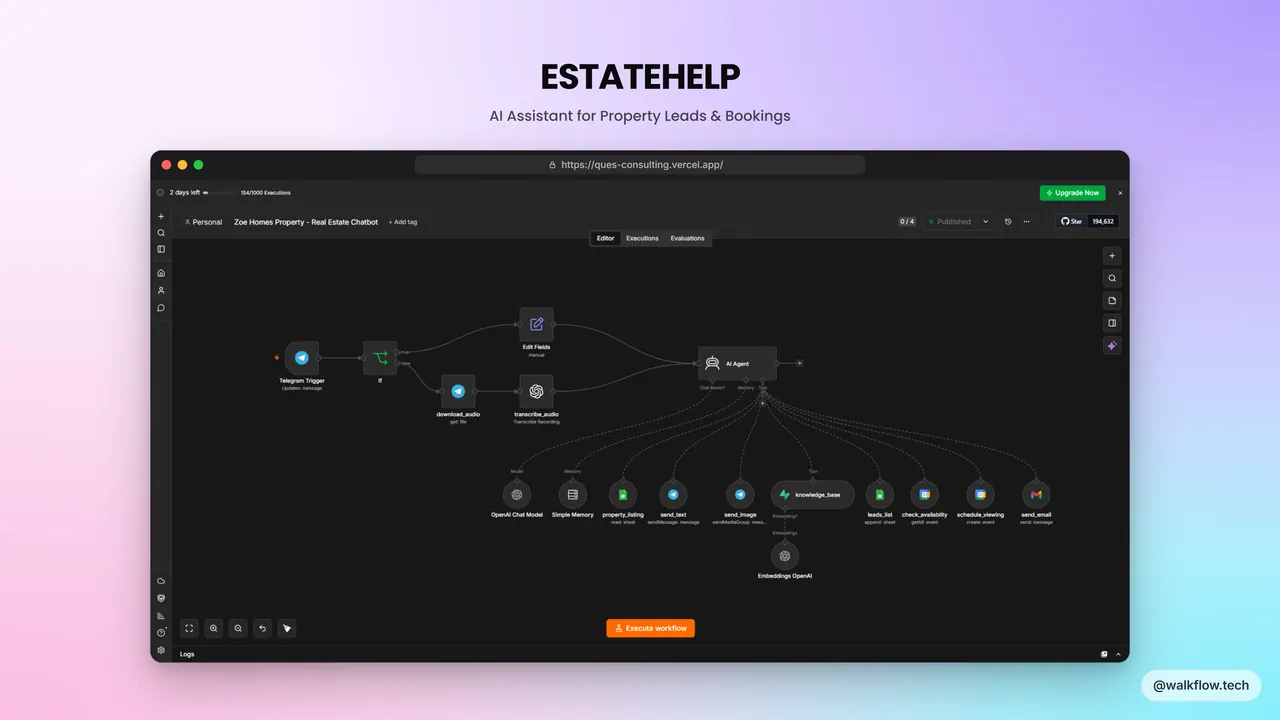
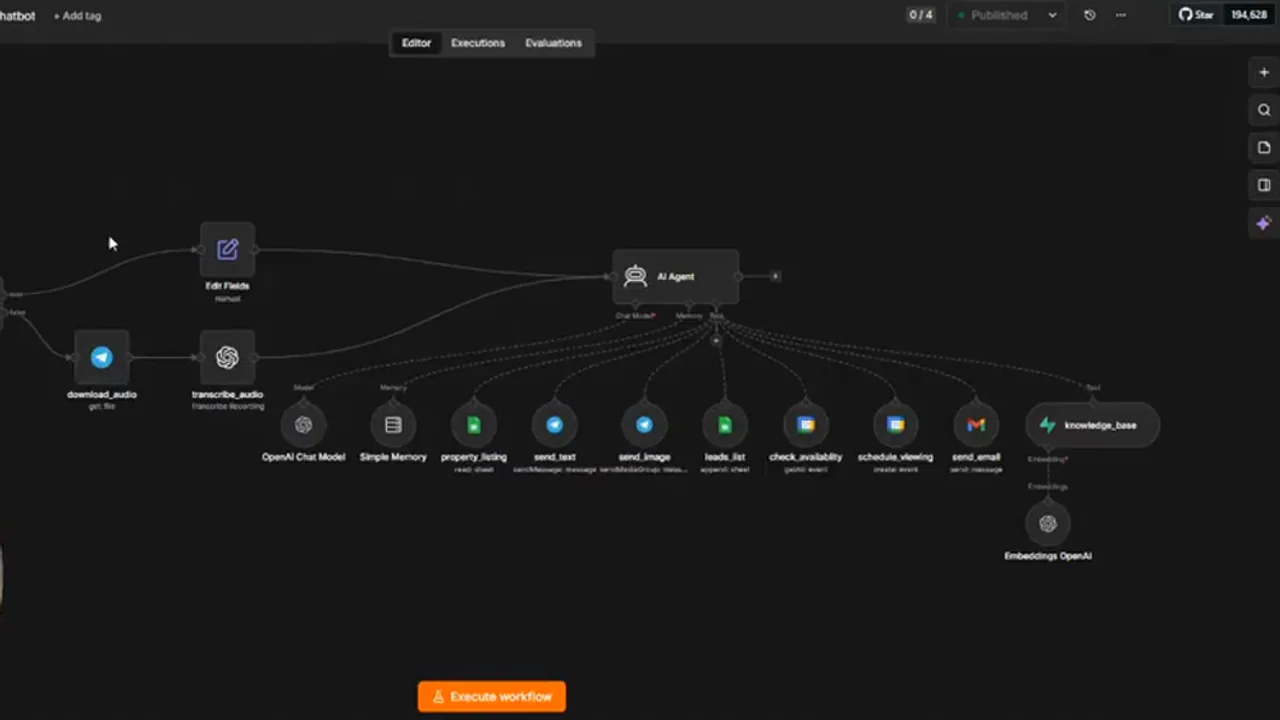
Automation showcase: remove card badge, left-align project pages, use project images
- Showcase cards no longer show the "Demo Project" corner label; desktop shows
  three cards per row across two rows (two columns tablet, one mobile).
- Project pages: the thumbnail is used on the cards only. Each page now shows its
  own screenshots/workflow images from the supplied folder, each at its real
  proportions and opening full size on click. Private data (names, email
  addresses, phone numbers, meeting links, webhook URLs, avatars) was redacted
  from the images before publishing. Items with no suitable image are reported,
  not substituted.
- Title, introduction, headings, paragraphs, lists, images, video and the
  consultation button share one left content edge.
- Video posters are now real frames from each video (cropped to remove webcam,
  browser tabs and taskbar) instead of repeating the thumbnail.

diff --git a/src/content/services.ts b/src/content/services.ts
@@ -82,6 +82,12 @@ export type ProjectItem = {
     solution: string;
     /** Short "how it works" steps, shown inside The Solution. */
     steps: string[];
+    /**
+     * Images shown on the project page in place of the card thumbnail (the thumbnail stays on the showcase card only).
+     * `width`/`height` are the real pixel size, so each image keeps its own proportions and reserves its space. Any private
+     * data in these screenshots was redacted before publishing; the caption says so where it applies.
+     */
+    gallery?: { src: string; alt: string; caption: string; width: number; height: number }[];
     /** Heading above the video block; the block is omitted when the project has no `videoSrc`. */
     videoHeading?: string;
   };
@@ -215,6 +221,15 @@ export const servicePages: Record<ServiceSlug, ServicePageContent> = {
               "A follow-up task is created, due within 24 hours.",
               "Each step is recorded in a database, and a separate error workflow alerts an administrator if something fails.",
             ],
+            gallery: [
+              { src: "/images/projects/automation/leadflow/01-form.webp", alt: "The LEADFLOW website enquiry form asking for name, email, what the buyer is looking for, preferred neighbourhood, budget and a message", caption: "The website enquiry form where a buyer describes what they are looking for.", width: 1600, height: 760 },
+              { src: "/images/projects/automation/leadflow/02-buyer-email.webp", alt: "Email sent to the buyer listing a matched property, with buttons to say whether they are still interested (personal details hidden)", caption: "The email the buyer receives with matching properties. Personal details are hidden.", width: 1600, height: 760 },
+              { src: "/images/projects/automation/leadflow/03-booking-page.webp", alt: "A property page showing a matched home with a Request a viewing option and a date and time form", caption: "From the email, the buyer can request a viewing and choose a date and time.", width: 1600, height: 760 },
+              { src: "/images/projects/automation/leadflow/04-agent-email.webp", alt: "Internal email to the assigned agent summarising the enquiry, the matched property and a follow-up due within 24 hours (personal details hidden)", caption: "The internal email to the assigned agent. Personal details are hidden.", width: 1600, height: 760 },
+              { src: "/images/projects/automation/leadflow/05-workflow.webp", alt: "The LEADFLOW workflow in n8n, from property enquiry to viewing", caption: "The LEADFLOW workflow in n8n.", width: 1600, height: 760 },
+              { src: "/images/projects/automation/leadflow/06-database.webp", alt: "A database table recording each LEADFLOW step, such as client notified, agent assigned and follow-up created", caption: "Each step is recorded in a database table.", width: 1600, height: 760 },
+              { src: "/images/projects/automation/leadflow/07-error-handler.webp", alt: "A small n8n error-handling workflow that formats a problem and emails an administrator", caption: "A separate error workflow alerts an administrator if something fails.", width: 1600, height: 760 },
+            ],
             videoHeading: "Watch the walkthrough",
           },
         },
@@ -242,6 +257,15 @@ export const servicePages: Record<ServiceSlug, ServicePageContent> = {
               "The request is saved in Airtable, alongside tables for inspections, quotes and activity, so progress is easy to track.",
               "A separate error workflow records any problem and sends an alert.",
             ],
+            gallery: [
+              { src: "/images/projects/automation/servicedesk/01-form.webp", alt: "The roofing enquiry form with contact method, property type, service needed, location, urgency, a description and a roof photo upload (personal details hidden)", caption: "The roofing request form, with optional photo upload. Personal details are hidden.", width: 1600, height: 1654 },
+              { src: "/images/projects/automation/servicedesk/02-confirmation.webp", alt: "Website confirmation message saying the enquiry has been received, with a reference number and an uploaded photo", caption: "The customer sees a confirmation with a reference number.", width: 1600, height: 760 },
+              { src: "/images/projects/automation/servicedesk/03-customer-email.webp", alt: "Acknowledgement email telling the customer the enquiry was received and that a team member will email about the next step (personal details hidden)", caption: "The acknowledgement email to the customer. Personal details are hidden.", width: 1600, height: 760 },
+              { src: "/images/projects/automation/servicedesk/04-team-alert.webp", alt: "A Telegram alert for the team showing the new roofing enquiry, urgency, preferred contact, owner and next step (personal details hidden)", caption: "The instant Telegram alert for the team. Personal details are hidden.", width: 1095, height: 890 },
+              { src: "/images/projects/automation/servicedesk/05-tracking.webp", alt: "An Airtable base with tables for leads, inspections, quotes and activity, showing the saved enquiries (personal details hidden)", caption: "Requests are saved in Airtable, with tables for inspections, quotes and activity. Personal details are hidden.", width: 1600, height: 760 },
+              { src: "/images/projects/automation/servicedesk/06-workflow.webp", alt: "The SERVICEDESK lead-manager workflow in n8n, with sections for the website enquiry, roof photo upload, customer quote link and staff buttons", caption: "The lead-manager workflow in n8n.", width: 1600, height: 760 },
+              { src: "/images/projects/automation/servicedesk/07-error-handler.webp", alt: "A SERVICEDESK error-handler workflow that records a problem and sends a Telegram alert", caption: "A separate error workflow records problems and sends an alert.", width: 1600, height: 760 },
+            ],
             videoHeading: "Watch the walkthrough",
           },
         },
@@ -267,6 +291,13 @@ export const servicePages: Record<ServiceSlug, ServicePageContent> = {
               "Discovery calls are booked into Google Calendar with a Google Meet link, and each booking is recorded with a reference and a status.",
               "Scheduled follow-up emails are sent from the same workflow.",
               "A separate recovery workflow records problems and alerts the team.",
+            ],
+            gallery: [
+              { src: "/images/projects/automation/bizflow/01-workflow.webp", alt: "The BIZFLOW enquiry, booking and follow-up manager workflow in n8n", caption: "The enquiry, booking and follow-up workflow in n8n.", width: 1600, height: 760 },
+              { src: "/images/projects/automation/bizflow/02-enquiries.webp", alt: "A Google Sheet logging each website enquiry with date, service and industry (names, emails and companies hidden)", caption: "Every enquiry is logged in a Google Sheet. Names, emails and companies are hidden.", width: 1600, height: 760 },
+              { src: "/images/projects/automation/bizflow/03-calendar.webp", alt: "A Google Calendar discovery call with a Google Meet link and reminders (guest details hidden)", caption: "Discovery calls are booked into Google Calendar with a Meet link. Guest details are hidden.", width: 1600, height: 760 },
+              { src: "/images/projects/automation/bizflow/04-bookings.webp", alt: "A Google Sheet of bookings with booking reference, enquiry reference, date, time, time zone and a Confirmed status (names, emails and links hidden)", caption: "Each booking is recorded with a reference and a status. Names, emails and links are hidden.", width: 1600, height: 760 },
+              { src: "/images/projects/automation/bizflow/05-recovery.webp", alt: "The BIZFLOW error alerts and recovery workflow in n8n", caption: "A separate recovery workflow records problems and alerts the team.", width: 1600, height: 760 },
             ],
             videoHeading: "Watch the walkthrough",
           },
@@ -294,6 +325,13 @@ export const servicePages: Record<ServiceSlug, ServicePageContent> = {
               "It saves the lead's name, phone number, email and the property they asked about to a leads sheet.",
               "It checks availability in Google Calendar, books the viewing and sends a confirmation email.",
             ],
+            gallery: [
+              { src: "/images/projects/automation/estatehelp/01-assistant.webp", alt: "The ESTATEHELP AI assistant workflow in n8n, starting from a Telegram message and connecting to property listing, knowledge base, calendar and email tools", caption: "The AI assistant workflow in n8n.", width: 1600, height: 788 },
+              { src: "/images/projects/automation/estatehelp/02-knowledge-base.webp", alt: "An n8n workflow that loads property documents from Google Drive into a vector store for the assistant to search", caption: "Property documents are loaded into a searchable knowledge base.", width: 1600, height: 788 },
+              { src: "/images/projects/automation/estatehelp/03-listings.webp", alt: "A Google Sheet listing properties with title, location, price, bedrooms, status and features (agent details and links hidden)", caption: "The assistant answers from your own property list. Agent details and links are hidden.", width: 1600, height: 436 },
+              { src: "/images/projects/automation/estatehelp/04-calendar.webp", alt: "A Google Calendar event for a property viewing booked by the assistant (contact details hidden)", caption: "Viewings are booked into Google Calendar. Contact details are hidden.", width: 1600, height: 788 },
+              { src: "/images/projects/automation/estatehelp/05-confirmation-email.webp", alt: "A viewing confirmation email with the property, date, time and location (personal details hidden)", caption: "The lead receives a viewing confirmation email. Personal details are hidden.", width: 1600, height: 788 },
+            ],
             videoHeading: "Watch the walkthrough",
           },
         },
@@ -318,6 +356,12 @@ export const servicePages: Record<ServiceSlug, ServicePageContent> = {
               "A voice agent built in ElevenLabs answers the call using a receptionist script.",
               "It checks free time slots through a connected workflow that reads the calendar.",
               "It books the appointment in the calendar, sends a confirmation email and logs the booking in a sheet.",
+            ],
+            gallery: [
+              { src: "/images/projects/automation/voice-agent/01-agent-setup.webp", alt: "The ElevenLabs agent setup for a plumbing receptionist, showing the system prompt, first message, voice and language", caption: "The receptionist agent set up in ElevenLabs.", width: 1600, height: 788 },
+              { src: "/images/projects/automation/voice-agent/02-tools.webp", alt: "The ElevenLabs tools for the agent, check availability and book appointment, with their settings (connection addresses hidden)", caption: "The agent uses two tools: check availability and book appointment. Connection addresses are hidden.", width: 1600, height: 788 },
+              { src: "/images/projects/automation/voice-agent/03-availability-workflow.webp", alt: "An n8n workflow that receives a webhook, uses an AI agent to read the calendar and responds with available times", caption: "The availability workflow reads the calendar.", width: 1600, height: 788 },
+              { src: "/images/projects/automation/voice-agent/04-booking-workflow.webp", alt: "An n8n workflow that receives a webhook and uses an AI agent to create the calendar booking, send an email and log it in a sheet", caption: "The booking workflow creates the event, emails a confirmation and logs it.", width: 1600, height: 788 },
             ],
             videoHeading: "Watch the walkthrough",
           },
@@ -344,6 +388,12 @@ export const servicePages: Record<ServiceSlug, ServicePageContent> = {
               "AI sorts the email into a department: Sales, Logistics, Billing, Customer Support or Office/Admin.",
               "The matching team is notified in its own Slack channel, and an email is sent to that department.",
               "The sheet is updated so you can see which department received the message and that it was completed.",
+            ],
+            gallery: [
+              { src: "/images/projects/automation/mailroute/01-diagram.webp", alt: "A diagram of the MAILROUTE flow from Gmail trigger through AI classification to department routing, Slack notifications and sheet updates", caption: "How MAILROUTE routes each email.", width: 1600, height: 788 },
+              { src: "/images/projects/automation/mailroute/02-workflow.webp", alt: "The MAILROUTE workflow in n8n with a Gmail trigger, AI agent, department switch and notifications for each team", caption: "The MAILROUTE workflow in n8n.", width: 1600, height: 788 },
+              { src: "/images/projects/automation/mailroute/03-log.webp", alt: "A Google Sheet logging each email with subject, body, completion status, timestamp and department (sender details hidden)", caption: "Every email is logged with its department. Sender details are hidden.", width: 1600, height: 788 },
+              { src: "/images/projects/automation/mailroute/04-slack.webp", alt: "A Slack channel for the logistics team showing a notification about a new email (names and addresses hidden)", caption: "The matching team is notified in its own Slack channel. Names and addresses are hidden.", width: 1600, height: 788 },
             ],
           },
         },

diff --git a/src/components/sections/services/AutomationDetail.tsx b/src/components/sections/services/AutomationDetail.tsx
@@ -8,10 +8,13 @@ import { IconArrowRight, IconChevronLeft } from "@/components/ui/icons";
 
 /**
  * Detail page for a Business Automation & CRM showcase project. Fixed content order:
- * title + introduction, main image, The Problem, The Solution, video (only when a real
- * `videoSrc` exists), then the consultation button. The video is never rendered without a
- * source, never autoplays, and does not preload (`preload="none"`) so the page stays light.
- * Rendered by ProjectDetail whenever a project carries `automation` content.
+ * title + introduction, project images, The Problem, The Solution, video (only when a real
+ * `videoSrc` exists), then the consultation button. Everything shares one left content edge.
+ *
+ * The card thumbnail (`project.image`) is used on the showcase card only; this page shows the
+ * project's own `automation.gallery` images instead. Each keeps its real proportions (width/height
+ * come from the file) and opens full size in a new tab, because screenshots are small at grid width.
+ * The video is never rendered without a source, never autoplays and does not preload.
  */
 export function AutomationDetail({
   project,
@@ -22,6 +25,7 @@ export function AutomationDetail({
 }) {
   const { automation } = project;
   if (!automation) return null;
+  const gallery = automation.gallery ?? [];
 
   return (
     <section className="bg-navy-deep py-16 sm:py-24">
@@ -45,22 +49,38 @@ export function AutomationDetail({
           {project.intro && <p className="mt-4 max-w-2xl text-lg leading-relaxed text-white/75">{project.intro}</p>}
         </Reveal>
 
-        <Reveal delay={0.08}>
-          <div className="relative mt-10 aspect-[16/9] w-full overflow-hidden rounded-2xl border border-white/10 bg-navy sm:rounded-[2rem]">
-            {project.image && (
-              <Image
-                src={project.image.src}
-                alt={project.image.alt}
-                fill
-                sizes="(min-width: 1024px) 896px, 92vw"
-                className="object-contain"
-                priority
-              />
-            )}
-          </div>
-        </Reveal>
+        {gallery.length > 0 && (
+          <Reveal delay={0.08}>
+            <ul className="mt-10 grid items-start gap-x-6 gap-y-8 sm:grid-cols-2">
+              {gallery.map((img, i) => (
+                <li key={img.src}>
+                  <figure>
+                    <a
+                      href={img.src}
+                      target="_blank"
+                      rel="noopener noreferrer"
+                      className="group block overflow-hidden rounded-xl border border-white/10 bg-navy outline-none transition-colors duration-150 hover:border-orange/40 focus-visible:outline-2 focus-visible:outline-offset-4 focus-visible:outline-orange"
+                    >
+                      <Image
+                        src={img.src}
+                        alt={img.alt}
+                        width={img.width}
+                        height={img.height}
+                        sizes="(min-width: 1280px) 540px, (min-width: 640px) 46vw, 92vw"
+                        priority={i < 2}
+                        className="h-auto w-full"
+                      />
+                      <span className="sr-only"> (opens the full-size image in a new tab)</span>
+                    </a>
+                    <figcaption className="mt-2.5 text-sm leading-relaxed text-white/60">{img.caption}</figcaption>
+                  </figure>
+                </li>
+              ))}
+            </ul>
+          </Reveal>
+        )}
 
-        <div className="mx-auto mt-14 max-w-3xl sm:mt-20">
+        <div className="mt-14 max-w-3xl sm:mt-20">
           <Reveal>
             <h2 className="text-[clamp(1.5rem,3vw,2rem)] leading-tight text-white">The Problem</h2>
             <p className="mt-4 leading-relaxed text-white/70">{automation.problem}</p>
@@ -83,32 +103,32 @@ export function AutomationDetail({
               ))}
             </ol>
           </Reveal>
-
-          {project.videoSrc && (
-            <Reveal delay={0.05}>
-              <div id="walkthrough" className="mt-12 scroll-mt-24 sm:mt-16">
-                <h2 className="text-[clamp(1.5rem,3vw,2rem)] leading-tight text-white">
-                  {automation.videoHeading ?? "Watch the walkthrough"}
-                </h2>
-                <div className="relative mt-5 aspect-video w-full overflow-hidden rounded-2xl border border-white/10 bg-navy">
-                  <video
-                    controls
-                    playsInline
-                    preload="none"
-                    poster={project.videoPoster?.src}
-                    aria-label={`${project.title} walkthrough video`}
-                    className="h-full w-full object-contain"
-                  >
-                    <source src={project.videoSrc} type="video/mp4" />
-                  </video>
-                </div>
-              </div>
-            </Reveal>
-          )}
         </div>
 
+        {project.videoSrc && (
+          <Reveal delay={0.05}>
+            <div id="walkthrough" className="mt-12 scroll-mt-24 sm:mt-16">
+              <h2 className="text-[clamp(1.5rem,3vw,2rem)] leading-tight text-white">
+                {automation.videoHeading ?? "Watch the walkthrough"}
+              </h2>
+              <div className="relative mt-5 aspect-video w-full overflow-hidden rounded-2xl border border-white/10 bg-navy">
+                <video
+                  controls
+                  playsInline
+                  preload="none"
+                  poster={project.videoPoster?.src}
+                  aria-label={`${project.title} walkthrough video`}
+                  className="h-full w-full object-contain"
+                >
+                  <source src={project.videoSrc} type="video/mp4" />
+                </video>
+              </div>
+            </div>
+          </Reveal>
+        )}
+
         <Reveal delay={0.05}>
-          <div className="mt-14 flex flex-col items-center border-t border-white/10 pt-12 text-center sm:mt-20 sm:pt-16">
+          <div className="mt-14 border-t border-white/10 pt-12 sm:mt-20 sm:pt-16">
             <h2 className="max-w-xl text-balance text-[clamp(1.5rem,3.2vw,2.25rem)] leading-tight text-white">
               Want something like this for your business?
             </h2>

diff --git a/src/components/sections/services/ServiceProjects.tsx b/src/components/sections/services/ServiceProjects.tsx
@@ -12,6 +12,7 @@ export function ServiceProjects({
   tileAspect,
   showSummary,
   columns = 2,
+  showBadge = true,
 }: {
   /** Session 26 — defaults to "Projects" so every page except App Development ("App Projects") renders exactly as before. */
   eyebrow?: string;
@@ -24,6 +25,8 @@ export function ServiceProjects({
   showSummary?: boolean;
   /** Desktop columns (tablet stays at two, mobile at one). Six automations sit best as 3 x 2; every other page keeps the default of 2. */
   columns?: 2 | 3;
+  /** Pass false to hide the corner label on every card (automation showcase). */
+  showBadge?: boolean;
 }) {
   return (
     <section id="projects" className="scroll-mt-24 border-t border-white/10 bg-navy-deep py-20 sm:py-28">
@@ -41,7 +44,7 @@ export function ServiceProjects({
         <div className={`mt-12 grid gap-4 sm:grid-cols-2 sm:gap-6${columns === 3 ? " lg:grid-cols-3" : ""}`}>
           {items.map((project, i) => (
             <Reveal key={project.slug} delay={i * 0.08} y={24} className={columns === 3 ? "h-full" : undefined}>
-              <ServiceProjectCard project={project} serviceSlug={serviceSlug} tileAspect={tileAspect} showSummary={showSummary} fillHeight={columns === 3} />
+              <ServiceProjectCard project={project} serviceSlug={serviceSlug} tileAspect={tileAspect} showSummary={showSummary} fillHeight={columns === 3} showBadge={showBadge} />
             </Reveal>
           ))}
         </div>

diff --git a/src/components/sections/services/ServiceProjectCard.tsx b/src/components/sections/services/ServiceProjectCard.tsx
@@ -35,6 +35,7 @@ export function ServiceProjectCard({
   tileAspect = "4/3",
   showSummary = true,
   fillHeight = false,
+  showBadge = true,
 }: {
   project: ProjectItem;
   serviceSlug: ServiceSlug;
@@ -42,6 +43,8 @@ export function ServiceProjectCard({
   showSummary?: boolean;
   /** Stretch to the grid row so neighbouring cards end level (used by the six-card automation grid only). */
   fillHeight?: boolean;
+  /** The "Concept Project" / "Demo Project" corner label on the image. Hidden on the automation showcase by request. */
+  showBadge?: boolean;
 }) {
   return (
     <Link
@@ -71,9 +74,11 @@ export function ServiceProjectCard({
           </div>
         )}
 
-        <span className="absolute left-3 top-3 rounded-full bg-navy-deep/85 px-3 py-1 text-[0.65rem] font-bold uppercase tracking-wide text-orange backdrop-blur">
-          {project.classification ?? "Concept Project"}
-        </span>
+        {showBadge && (
+          <span className="absolute left-3 top-3 rounded-full bg-navy-deep/85 px-3 py-1 text-[0.65rem] font-bold uppercase tracking-wide text-orange backdrop-blur">
+            {project.classification ?? "Concept Project"}
+          </span>
+        )}
 
         {/* Dark overlay + label: always visible on touch devices (no `hover` media feature), hover/focus-revealed on devices that support hovering. */}
         <div

diff --git a/src/app/services/business-automation-crm/page.tsx b/src/app/services/business-automation-crm/page.tsx
@@ -30,7 +30,7 @@ export default function BusinessAutomationCrmPage() {
   return (
     <>
       <ServiceHero {...content.hero} />
-      <ServiceProjects {...content.projects} serviceSlug={content.slug} tileAspect="16/9" columns={3} />
+      <ServiceProjects {...content.projects} serviceSlug={content.slug} tileAspect="16/9" columns={3} showBadge={false} />
       <ServiceWhatWeDo {...content.whatWeDo} />
       <ServiceWhyWalkflow {...content.whyWalkflow} />
       <ServiceProcess {...content.process} />
